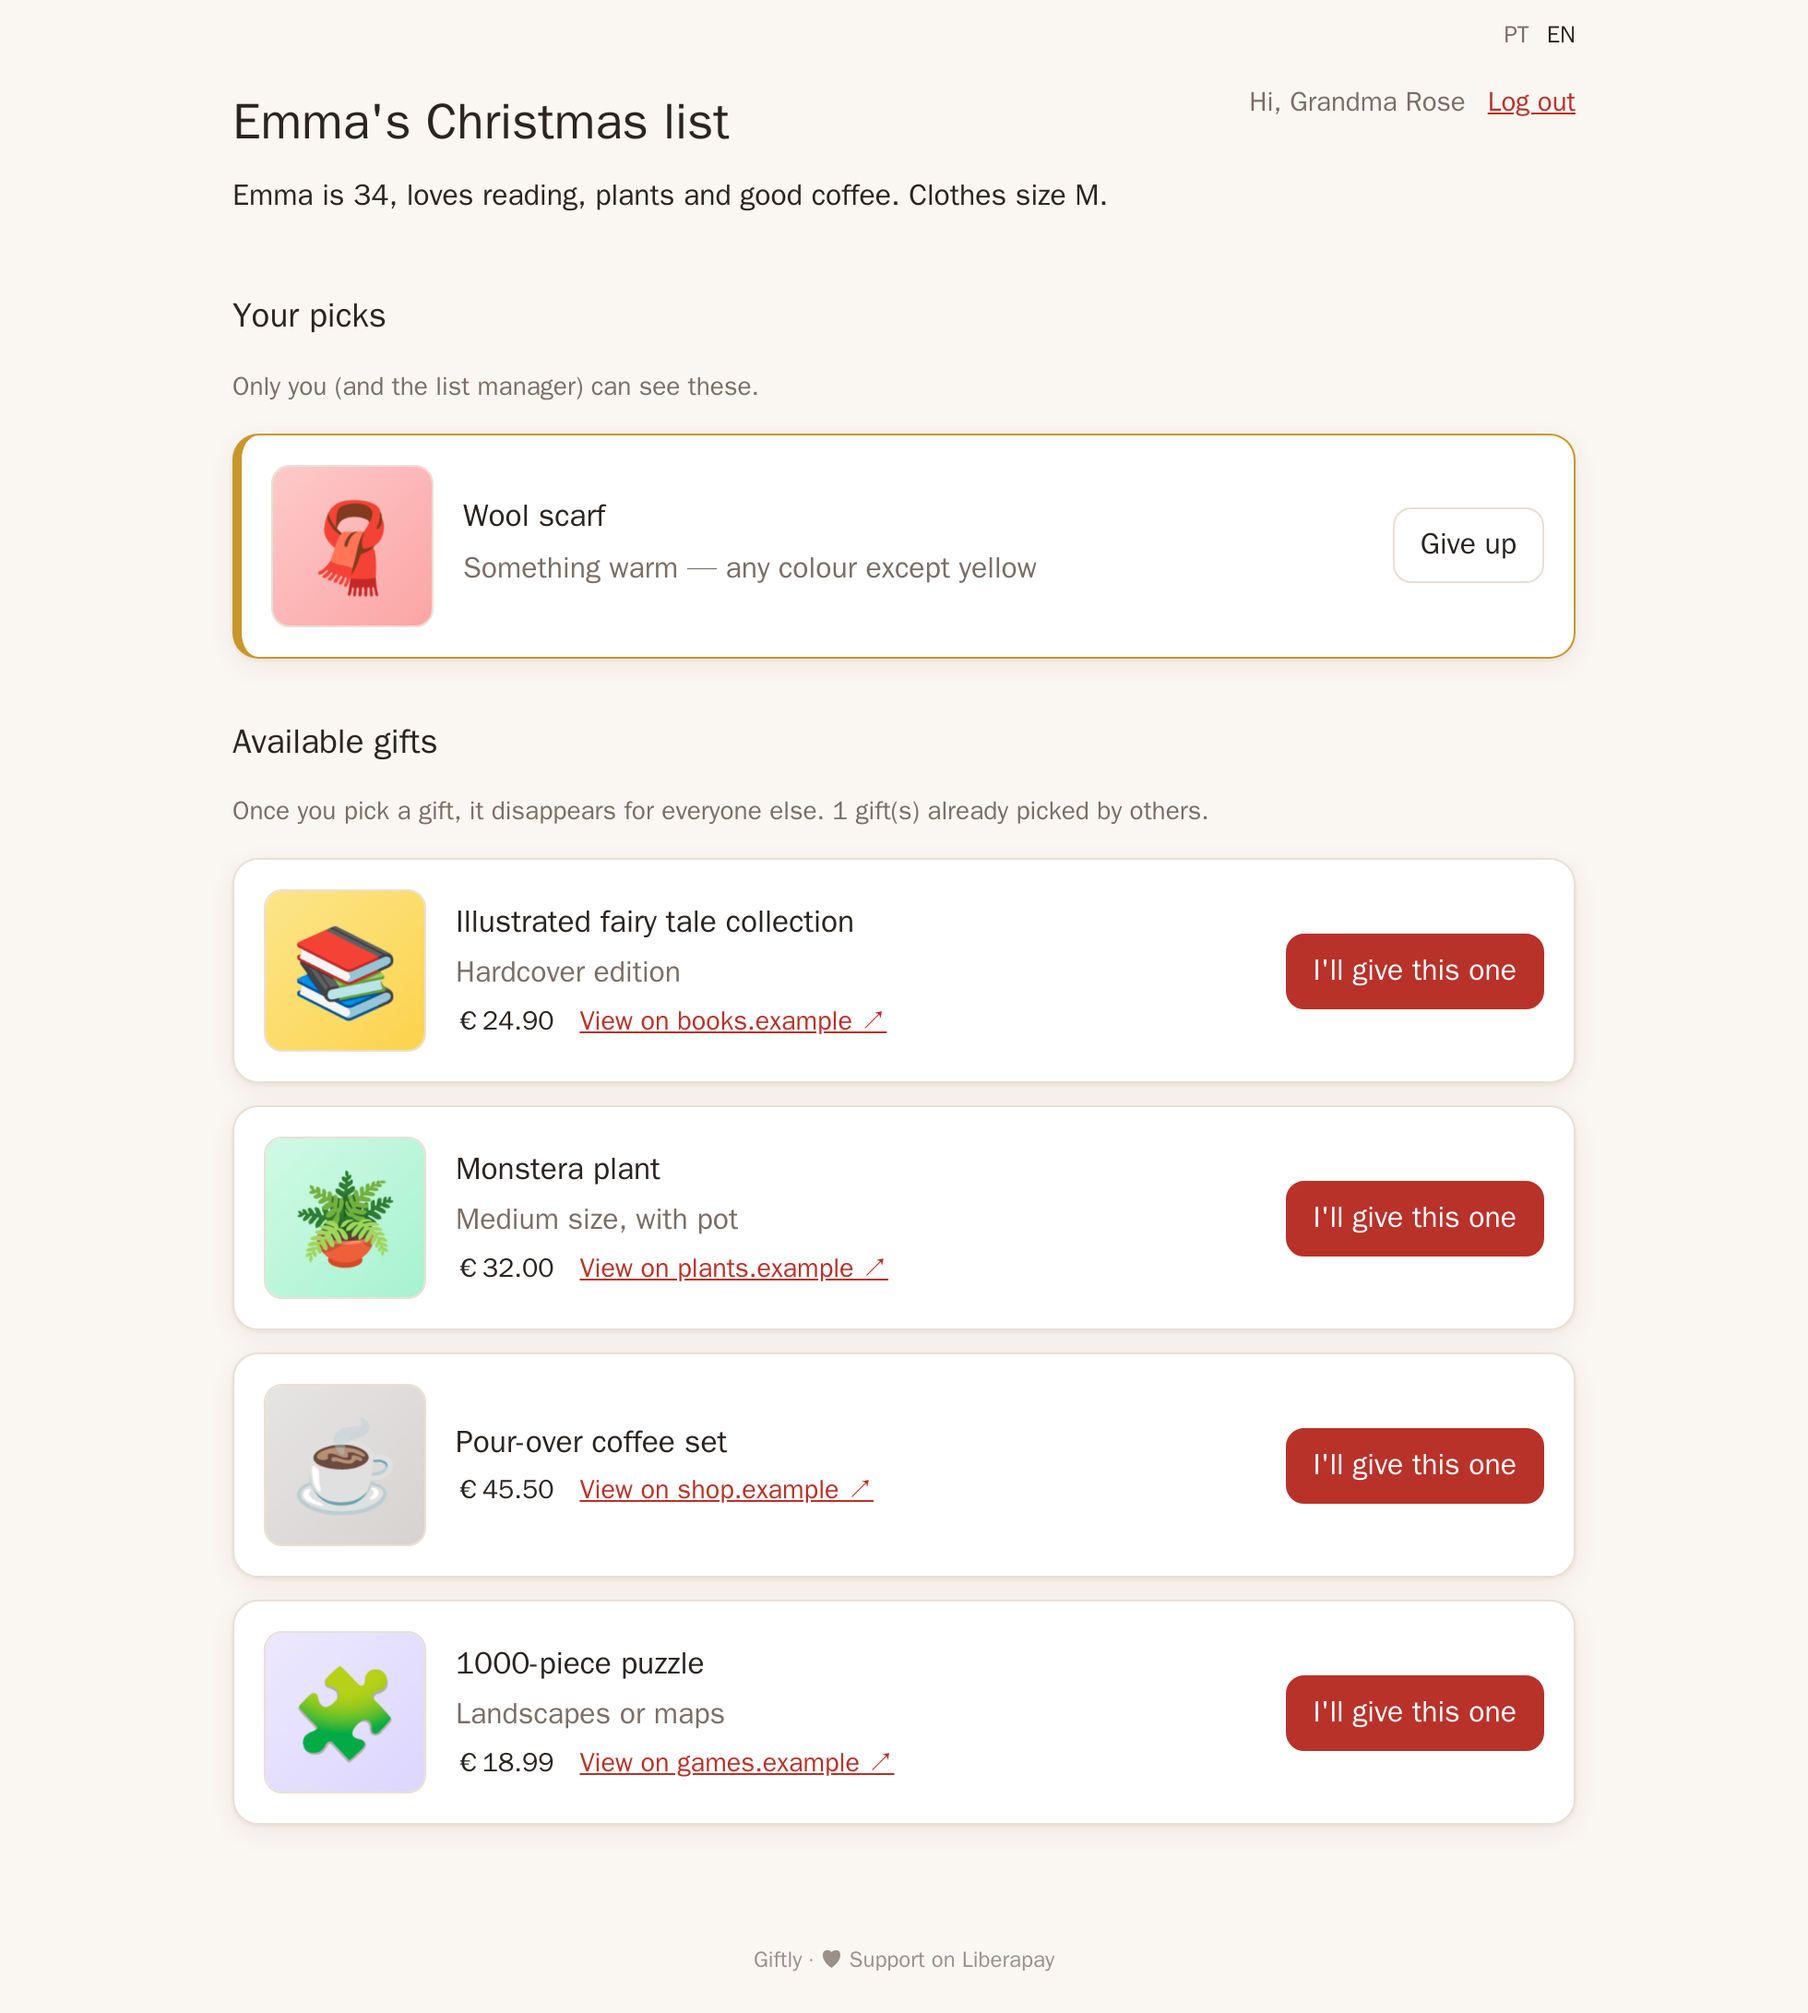
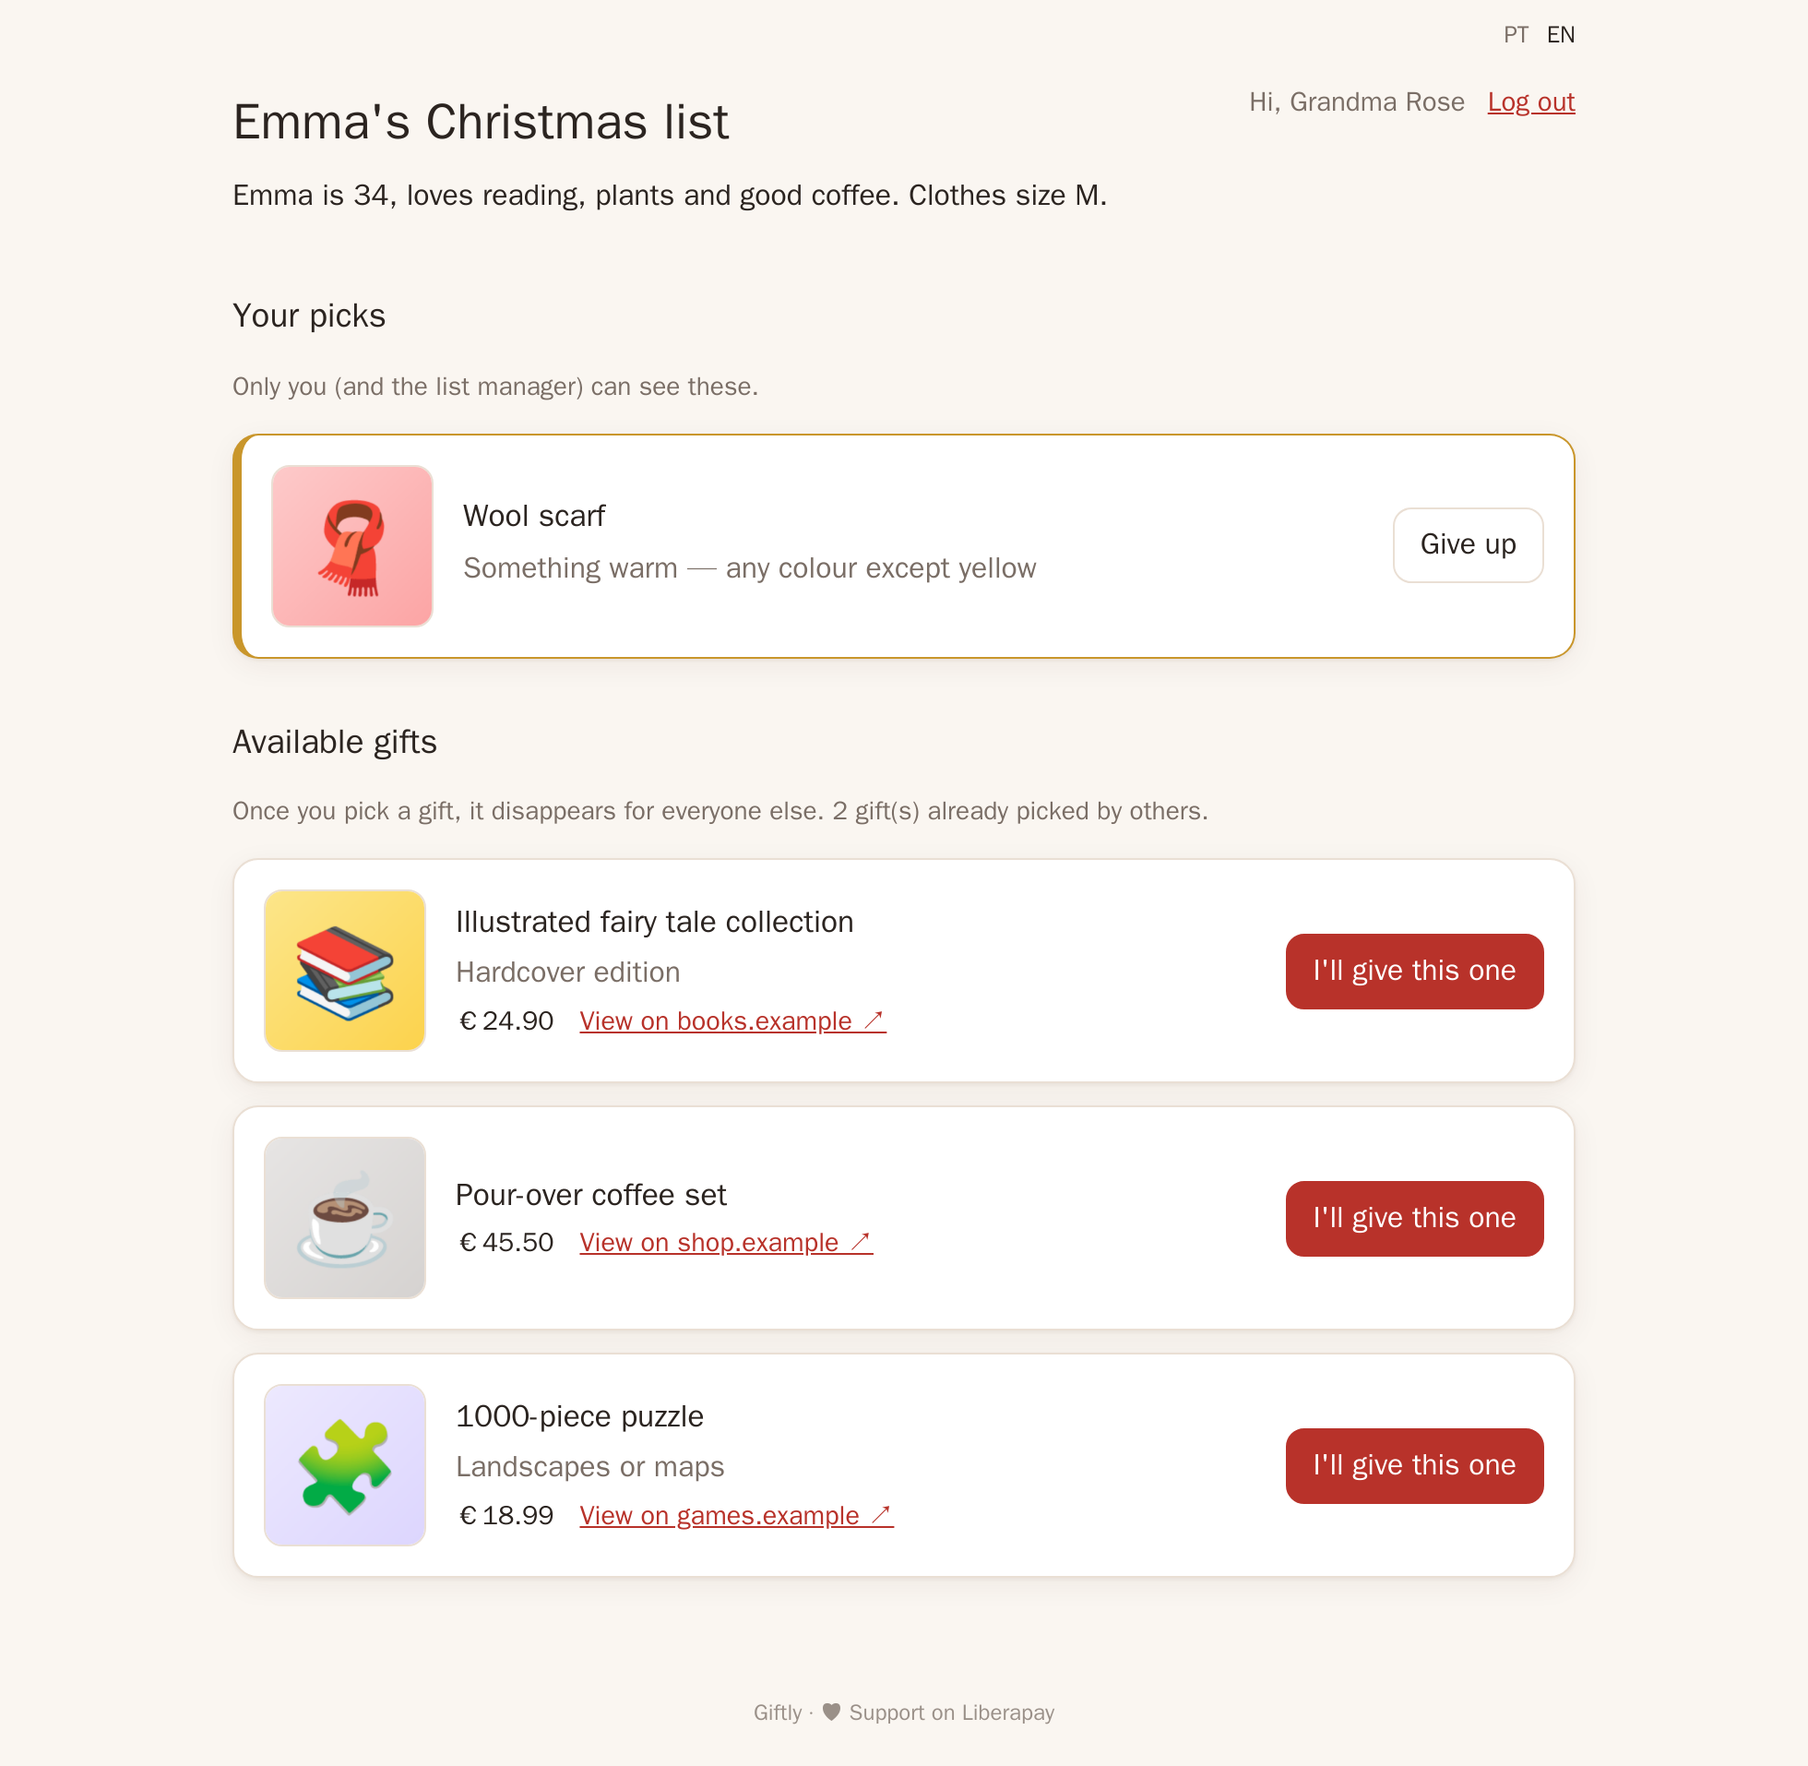
README: GIF of a guest picking a gift on a phone
Recorded with Playwright from the mock-data screenshot run (tools/screenshots),
converted to an optimised GIF with ffmpeg.

diff --git a/tools/screenshots/lists.js b/tools/screenshots/lists.js
@@ -69,6 +69,7 @@ async function phase2(browser, admin) {
   }
   const tom = await guest('Uncle Tom', desktop, ['Wireless headphones']);
   await tom.ctx.close();
+  await recordGuestFlow(browser, share);
   const rose = await guest('Grandma Rose', desktop, ['Wool scarf']);
   await rose.p.screenshot({ path: `${OUT}/guest-list.png`, fullPage: true });
   await rose.ctx.close();
@@ -101,4 +102,63 @@ async function phase2(browser, admin) {
   await admin.goto(`${B}/admin/users`);
   await admin.setViewportSize({ width: 980, height: 620 });
   await admin.screenshot({ path: `${OUT}/admins.png` });
+}
+
+/**
+ * README GIF: a guest opens the list link on a phone, types their name and picks a gift.
+ * Recorded as video (converted to GIF by run.sh). Taps are drawn as a fading circle.
+ */
+async function recordGuestFlow(browser, share) {
+  const size = { width: 390, height: 760 };
+  const ctx = await browser.newContext({ ...mobile, viewport: size, deviceScaleFactor: 1, recordVideo: { dir: `${OUT}/video`, size } });
+  await ctx.addInitScript(() => {
+    // Native confirm dialogs freeze Chromium's screencast: answer "yes" without one in the recording.
+    window.confirm = () => true;
+    addEventListener('pointerdown', (e) => {
+      const d = document.createElement('div');
+      Object.assign(d.style, { position: 'fixed', left: `${e.clientX - 22}px`, top: `${e.clientY - 22}px`, width: '44px', height: '44px',
+        borderRadius: '50%', background: 'rgba(184,50,42,.35)', border: '2px solid rgba(184,50,42,.7)', pointerEvents: 'none',
+        zIndex: 99999, transition: 'opacity .6s, transform .6s' });
+      document.documentElement.appendChild(d);
+      requestAnimationFrame(() => { d.style.opacity = '0'; d.style.transform = 'scale(1.6)'; });
+      setTimeout(() => d.remove(), 700);
+    }, true);
+  });
+  const p = await ctx.newPage();
+  const pause = (ms) => p.waitForTimeout(ms);
+  const tap = async (loc) => {
+    const b = await loc.boundingBox();
+    await p.mouse.move(b.x + b.width / 2, b.y + b.height / 2);
+    await p.mouse.down(); await pause(120); await p.mouse.up();
+  };
+
+  await p.goto(share);
+  await pause(1200);
+  await tap(p.locator('input[name=name]'));
+  await p.locator('input[name=name]').pressSequentially('Aunt Clara', { delay: 110 });
+  await pause(600);
+  await tap(p.locator('button[type=submit]'));
+  await p.waitForLoadState();
+  await pause(1500);
+  const item = p.locator('li.item', { hasText: 'Monstera plant' });
+  // A gentle scroll down to the gift, then wait until it has stopped moving.
+  const target = await item.evaluate((el) => el.getBoundingClientRect().top + scrollY - innerHeight / 2 + el.offsetHeight / 2);
+  await p.evaluate(async (y) => {
+    const from = scrollY, steps = 40;
+    for (let i = 1; i <= steps; i++) {
+      const t = i / steps, ease = t < .5 ? 2 * t * t : 1 - (-2 * t + 2) ** 2 / 2;
+      scrollTo(0, from + (y - from) * ease);
+      await new Promise((r) => setTimeout(r, 25));
+    }
+  }, target);
+  await pause(1000);
+  const before = p.url();
+  await tap(item.locator('button'));
+  await p.waitForURL((u) => u.href !== before);
+  await p.waitForLoadState();
+  await pause(1200);
+  await p.evaluate(() => scrollTo({ top: 0, behavior: 'instant' }));
+  await pause(2800);
+  await ctx.close();
+  fs.renameSync(await p.video().path(), `${OUT}/guest-flow.webm`);
 }

diff --git a/README.md b/README.md
@@ -12,7 +12,7 @@ Self-hosted gift lists for families and friends.
 - Gifts with a link show the **shop's product image and price** automatically. Prices are re-checked daily and are never typed by hand.
 - **Several admins**, each with their own account, and optional **notifications** (ntfy, Telegram, Discord/Slack webhook) when someone picks a gift.
 - The admin always shows everything: who picked what and when, and who joined.
-- **Wishlists:** each admin keeps a personal wishlist; another admin can create a guest list from it (the owner never sees that list or what was reserved), or take an item with "I'll give it".
+- **Wishlists:** every admin keeps a personal wishlist, and every person in "gifts to give" has one too. Create guest lists from them (linked and kept in sync) or take an item with "I'll give it"; an admin never sees what was reserved for them.
 - **Gifts to give:** keep track of the gifts *you* give: people, birthdays, Christmas and other occasions, with a checklist per occasion, what each person got last year, shared or private entries per admin, and **reminders** when a gift is still missing.
 
 <p align="center">
@@ -20,6 +20,8 @@ Self-hosted gift lists for families and friends.
 </p>
 
 <p align="center">
+  <img src="docs/screenshots/guest-flow.gif" alt="A guest opens the list link on a phone, types their name, scrolls to a plant and taps “I'll give this one”; it moves to their picks" width="240">
+  &nbsp;
   <img src="docs/screenshots/join-mobile.png" alt="Joining a list on a phone: only a name is needed" width="240">
   &nbsp;
   <img src="docs/screenshots/guest-mobile-dark.png" alt="The gift list on a phone in dark mode" width="240">
